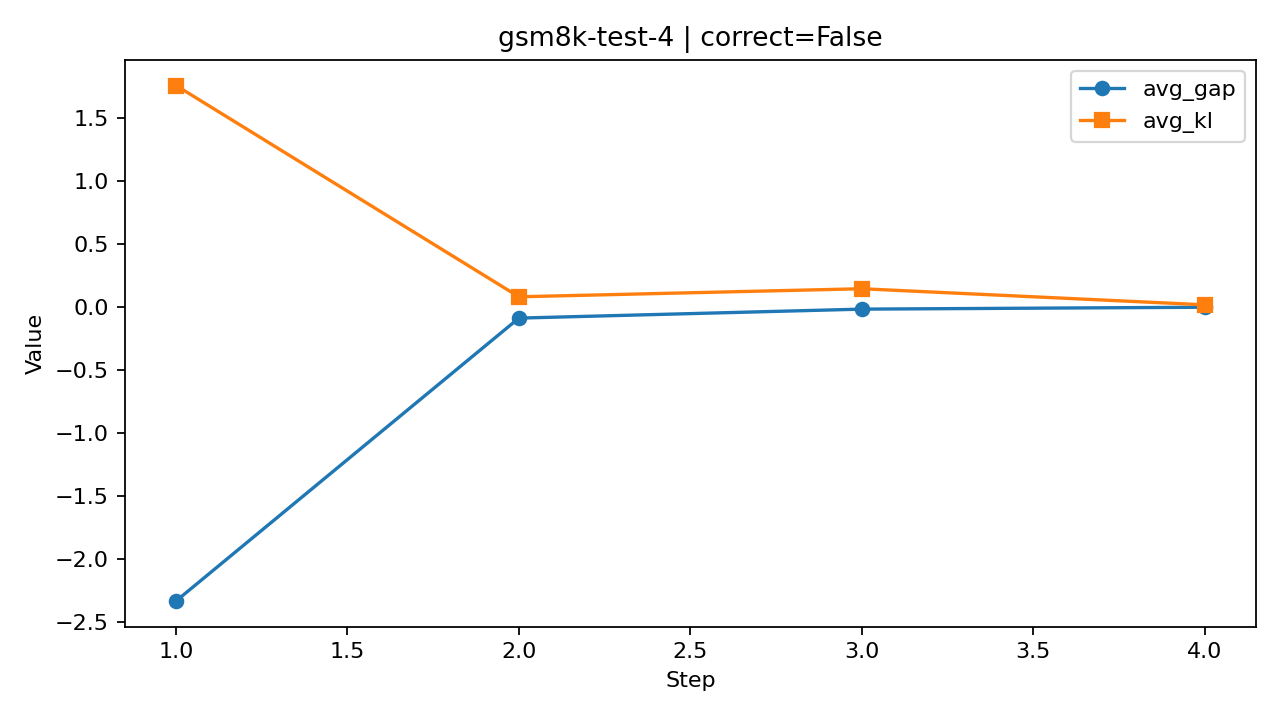
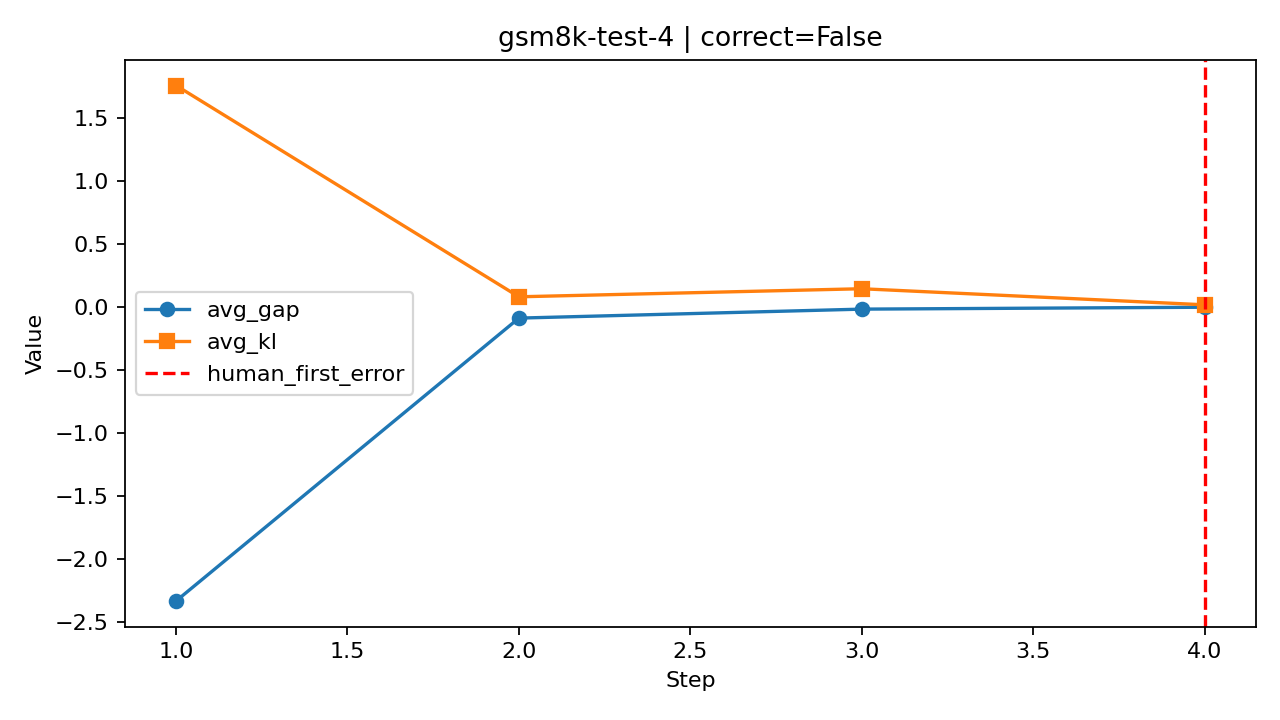
result update

Changed region(s): [[0.0938, 0.3972, 0.3125, 0.55], [0.8438, 0.0917, 0.9688, 0.2139]]

diff --git a/outputs/basd_protocol_analysis/report.md b/outputs/basd_protocol_analysis/report.md
@@ -7,13 +7,13 @@
 - avg_num_tokens: 244.95
 
 ## Boundary Metrics
-- gap_argmax: {}
-- gap_jump: {}
-- kl_argmax: {}
+- gap_argmax: {"n": 4, "exact_match_rate": 0.25, "near_match_rate": 0.5, "mean_absolute_error": 1.5}
+- gap_jump: {"n": 4, "exact_match_rate": 0.25, "near_match_rate": 0.5, "mean_absolute_error": 2.0}
+- kl_argmax: {"n": 4, "exact_match_rate": 0.0, "near_match_rate": 0.25, "mean_absolute_error": 3.0}
 
 ## Correct vs Wrong
 - max_gap: {"field": "avg_gap", "correct_mean": 0.026247739730862647, "correct_median": 0.01699559963127701, "wrong_mean": 0.01175658562109709, "wrong_median": 0.011991009618070207, "wrong_gt_correct_ratio": 0.328125}
 - max_kl: {"field": "avg_kl", "correct_mean": 0.7687807730290014, "correct_median": 0.49208577289368177, "wrong_mean": 0.8304974661980289, "wrong_median": 0.7192803181872007, "wrong_gt_correct_ratio": 0.5625}
 
 ## Boundary Coverage
-- boundary_pattern_yes_among_wrong: None
+- boundary_pattern_yes_among_wrong: 0.75
